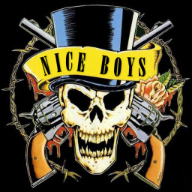
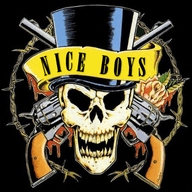
PWA installable : manifeste complet, icônes, page hors ligne, bouton d'installation
- Manifeste : id, scope, lang, short_name, catégories ; theme_color aligné
  sur le HTML (#000000)
- Icônes : "any" et "maskable" séparées (maskable = logo à 72 % sur fond
  noir), icônes existantes compressées (512 : 478 Ko -> 123 Ko)
- Service worker minimal : aucune page du site en cache, seule
  /offline.html (+ logo) est précachée et affichée si la navigation échoue
  sans réseau ; navigation preload activé
- offline.html : logo, titre, message, bouton Actualiser, rechargement
  auto au retour du réseau
- Bouton "Installer l'app Nice Boys" dans le footer, visible seulement
  quand le navigateur propose l'installation

diff --git a/public/offline.html b/public/offline.html
@@ -1,0 +1,74 @@
+<!doctype html>
+<html lang="fr">
+  <head>
+    <meta charset="UTF-8" />
+    <meta name="viewport" content="width=device-width, initial-scale=1.0" />
+    <meta name="robots" content="noindex, nofollow" />
+    <meta name="theme-color" content="#000000" />
+    <title>Nice Boys – Hors ligne</title>
+    <style>
+      * { margin: 0; padding: 0; box-sizing: border-box; }
+      body {
+        min-height: 100vh;
+        display: flex;
+        flex-direction: column;
+        align-items: center;
+        justify-content: center;
+        gap: 1.2rem;
+        padding: 2rem 1rem;
+        text-align: center;
+        background: #0a0a0a;
+        color: #e0e0e0;
+        font-family: system-ui, -apple-system, "Segoe UI", Roboto, sans-serif;
+      }
+      .logo {
+        width: 160px;
+        height: 160px;
+        object-fit: contain;
+        border-radius: 50%;
+        border: 3px solid #161616;
+        box-shadow: 0 8px 30px rgba(0, 0, 0, 0.7);
+      }
+      .title {
+        font-size: clamp(2.8rem, 12vw, 4.5rem);
+        font-weight: 800;
+        letter-spacing: -0.03em;
+        line-height: 0.9;
+        background: linear-gradient(135deg, #fff 0%, #d1d5db 50%, #9ca3af 100%);
+        -webkit-background-clip: text;
+        background-clip: text;
+        color: transparent;
+      }
+      .subtitle {
+        font-size: 1.4rem;
+        color: #9f7aea;
+        font-variant-caps: all-small-caps;
+        font-weight: 500;
+      }
+      .message { color: #a0a0a0; max-width: 28rem; line-height: 1.4; }
+      button {
+        margin-top: 0.5rem;
+        padding: 0.8rem 1.8rem;
+        border: 1px solid #c084fc;
+        border-radius: 999px;
+        background: transparent;
+        color: #c084fc;
+        font: inherit;
+        font-weight: 600;
+        cursor: pointer;
+      }
+      button:hover, button:focus-visible { background: #c084fc; color: #0a0a0a; }
+    </style>
+  </head>
+  <body>
+    <img class="logo" src="/logo.webp" alt="Logo Nice Boys" width="400" height="347" />
+    <h1 class="title">NICE BOYS</h1>
+    <p class="subtitle">Tribute Guns N' Roses</p>
+    <p class="message">Pas de connexion pour le moment… on attend le retour du réseau pour remonter sur scène 🤘</p>
+    <button type="button" onclick="location.reload()">Actualiser</button>
+    <script>
+      // Recharge automatiquement dès que la connexion revient
+      window.addEventListener("online", () => location.reload());
+    </script>
+  </body>
+</html>

diff --git a/public/sw.js b/public/sw.js
@@ -1,0 +1,58 @@
+// Service worker minimal des Nice Boys.
+// - Aucune page du site n'est mise en cache : tout passe par le réseau, jamais de contenu périmé.
+// - Seules /offline.html et le logo sont précachés, pour afficher une page "Hors ligne"
+//   quand une navigation échoue faute de réseau.
+// Pour forcer la mise à jour de la page hors ligne : incrémenter CACHE_NAME.
+const CACHE_NAME = "niceboys-offline-v1";
+const OFFLINE_URL = "/offline.html";
+const LOGO_URL = "/logo.webp";
+
+self.addEventListener("install", (event) => {
+  event.waitUntil(
+    caches
+      .open(CACHE_NAME)
+      .then((cache) => cache.addAll([OFFLINE_URL, LOGO_URL].map((url) => new Request(url, { cache: "reload" }))))
+      .then(() => self.skipWaiting())
+  );
+});
+
+self.addEventListener("activate", (event) => {
+  event.waitUntil(
+    (async () => {
+      // Navigation preload : la page est demandée au réseau en parallèle du démarrage du SW (pas de ralentissement)
+      if (self.registration.navigationPreload) {
+        await self.registration.navigationPreload.enable();
+      }
+      for (const key of await caches.keys()) {
+        if (key !== CACHE_NAME) await caches.delete(key);
+      }
+      await self.clients.claim();
+    })()
+  );
+});
+
+self.addEventListener("fetch", (event) => {
+  const { request } = event;
+
+  // Navigation (ouverture d'une page) : réseau, et page hors ligne en cas d'échec
+  if (request.mode === "navigate") {
+    event.respondWith(
+      (async () => {
+        try {
+          const preloaded = await event.preloadResponse;
+          if (preloaded) return preloaded;
+          return await fetch(request);
+        } catch {
+          return (await caches.match(OFFLINE_URL)) || Response.error();
+        }
+      })()
+    );
+    return;
+  }
+
+  // Logo affiché par la page hors ligne : réseau d'abord, cache en secours
+  if (new URL(request.url).pathname === LOGO_URL) {
+    event.respondWith(fetch(request).catch(() => caches.match(LOGO_URL)));
+  }
+  // Tout le reste : comportement normal du navigateur (le SW n'intervient pas)
+});

diff --git a/src/styles/styles.css b/src/styles/styles.css
@@ -562,6 +562,26 @@ footer a {
 
 footer a:hover { color: var(--accent); text-decoration: underline; }
 
+/* Bouton "Installer l'app" (affiché seulement si le navigateur propose l'installation) */
+.install-app {
+  margin: 0 auto 1rem;
+  padding: 0.55rem 1.3rem;
+  border: 1px solid var(--accent-dim);
+  border-radius: 999px;
+  background: transparent;
+  color: var(--accent);
+  font: inherit;
+  font-weight: 600;
+  cursor: pointer;
+  transition: background 0.2s ease, color 0.2s ease;
+}
+.install-app:hover,
+.install-app:focus-visible {
+  background: var(--accent);
+  color: var(--bg);
+}
+.install-app[hidden] { display: none; }
+
 @media (max-width: 600px) {
   header { padding: 4rem 0 3rem; }
   .hero-title { font-size: clamp(3rem, 12vw, 5.5rem); }
